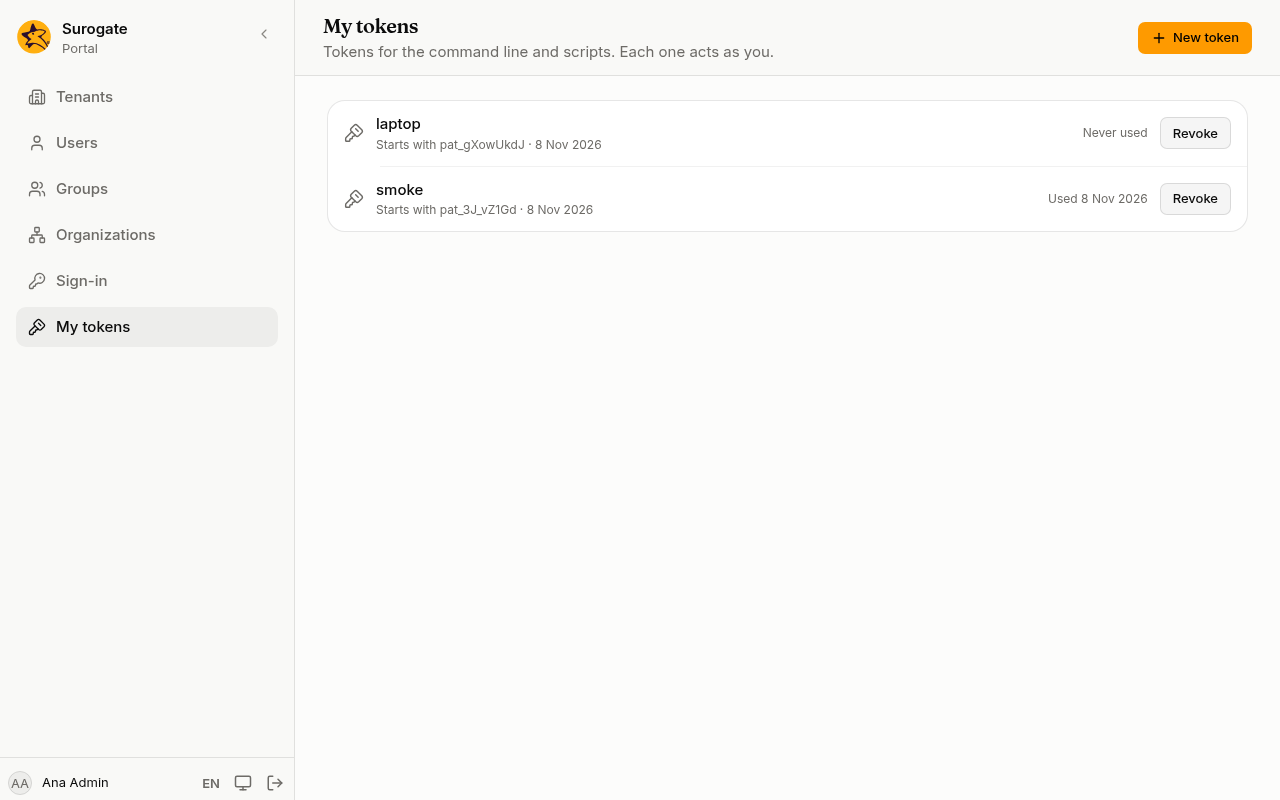
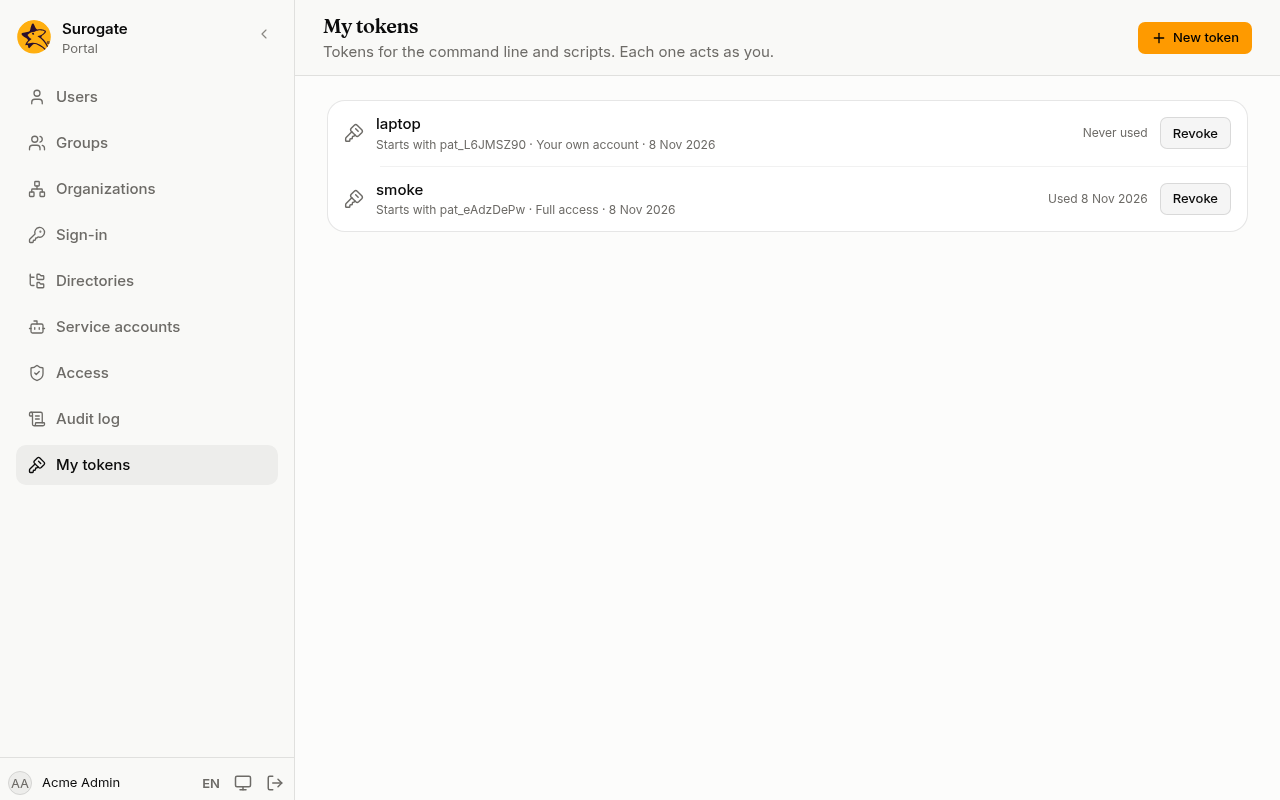
docs(portal): service accounts, token scopes, impersonation and private repositories

diff --git a/tests/test_content.py b/tests/test_content.py
@@ -59,5 +59,17 @@ class Content(unittest.TestCase):
                 self.assertNotIn(word, page(route))
 
 
+    def test_portal_machine_access(self):
+        doc = page('/portal/console/service-accounts/')
+        self.assertIn('<figcaption>A service account', doc)
+        self.assertIn('Act for a person', doc)
+        self.assertIn('id="scopes"', page('/portal/console/tokens/'))
+        self.assertIn('id="impersonate"', page('/portal/console/users/'))
+        self.assertIn('Private repository', page('/portal/console/tenants/'))
+        for route in ('/portal/console/service-accounts/', '/portal/console/tokens/',
+                      '/portal/console/users/', '/portal/console/tenants/'):
+            for word in ('kubectl', 'helm', 'PORTAL_'):
+                self.assertNotIn(word, page(route))
+
 if __name__ == '__main__':
     unittest.main()

diff --git a/tests/test_topics.py b/tests/test_topics.py
@@ -13,7 +13,8 @@ PORTAL = ['/portal/', '/portal/quickstart/', '/portal/console/sign-in/', '/porta
           '/portal/console/groups/', '/portal/console/organizations/', '/portal/console/sign-in-providers/',
           '/portal/console/tokens/', '/portal/console/tenants/', '/portal/reference/roles/',
           '/portal/console/directories/', '/portal/console/group-mappings/', '/portal/console/scim/',
-          '/portal/console/access/', '/portal/sites/permissions/', '/portal/console/audit/']
+          '/portal/console/access/', '/portal/sites/permissions/', '/portal/console/audit/',
+          '/portal/console/service-accounts/']
 
 
 class Topics(unittest.TestCase):

diff --git a/src/content/docs/portal/console/service-accounts.md b/src/content/docs/portal/console/service-accounts.md
@@ -1,0 +1,52 @@
+---
+title: Service accounts
+---
+
+A service account is an account for a program, such as a case system or a nightly import, that calls the portal. It never signs in and is not one of the portal's people. It acts through its own tokens and OAuth clients, each limited to what you allow. **Service accounts** is for administrators.
+
+## Create a service account
+
+1. Press **New service account**.
+2. **Name**: what people call the program, such as "Keel".
+3. **Slug**: a short name for it in lower-case letters, digits and hyphens, such as `keel`. It cannot change.
+4. Tick **Administrator** if the program manages users, groups or settings. Leave it unticked for a program that only reads its own data.
+5. Press **Create account**. The account's page opens.
+
+![A service account's page: its API tokens, and its OAuth clients with their scopes and backends.](../../../../assets/screenshots/portal-service-account.png)
+
+## API tokens
+
+An API token is the simplest way for a program to call the portal: it sends the token with every request.
+
+1. On the account's page, under **API tokens**, press **New token**.
+2. Name the token, such as "production".
+3. Tick its [scopes](/portal/console/tokens/#scopes): only what the program needs.
+4. Press **Create token**, then **Copy**. The console shows the token this once.
+
+## OAuth clients
+
+An OAuth client gets short-lived tokens from the portal itself, which programs built on standard libraries expect. A client can also let an app's backend act for the person who uses the app.
+
+1. Under **OAuth clients**, press **New client**.
+2. Tick its scopes. A client never has **Full access**.
+3. Tick **Act for a person** only if the program does work on a person's behalf: the audit log then names both the program and the person.
+4. Under **App backends**, tick the apps whose backends may use this client to call on behalf of the person signed in to the app. The list shows the apps your implementation team has set up with a backend.
+5. Press **Create client**. Copy the **Client ID** and the **Client secret** and give them to the program's team over a safe channel. The secret is shown this once.
+
+The program asks for tokens at `/_portal/oauth/token` on the tenant's address.
+
+## Revoke, disable and delete
+
+- **Revoke** beside a token or a client stops it at once. Revoked ones stay in the list, marked **Revoked**.
+- **Disable** at the top stops every token and client of the account until you press **Enable**.
+- **Delete account** removes the account with its tokens and clients. This can't be undone.
+
+Everything a service account does is in the [audit log](/portal/console/audit/) under its name.
+
+The same can be done from the command line with an administrator's [token](/portal/console/tokens/):
+
+```
+portal service-accounts create <slug> --name "<name>" [--role administrator]
+portal service-accounts token <slug> <token name> --scope <scope>
+portal service-accounts client <slug> --scope <scope> [--audience <app>]
+```

diff --git a/src/content/docs/portal/console/tokens.md b/src/content/docs/portal/console/tokens.md
@@ -2,19 +2,43 @@
 title: My tokens
 ---
 
-A token lets the command line or a script act as you, without your password. Everyone who signs in to the console has **My tokens**. A token can do what you can do in the console, no more.
+A token lets the command line or a script act as you, without your password. For a program that is not you, make a [service account](/portal/console/service-accounts/) instead. Everyone who signs in to the console has **My tokens**. A token can do what you can do in the console, no more.
 
 ## Create a token
 
 1. Press **New token**.
 2. Name it so you know it later, such as "laptop" or "nightly backup".
-3. Press **Create token**.
-4. Press **Copy** and keep the token somewhere safe. The console shows it this once: "Copy it now. You won't be able to see it again."
-5. Press **Close**.
+3. Tick its **Scopes**: what the token may do. **Your own account** is ticked to start with.
+4. Press **Create token**.
+5. Press **Copy** and keep the token somewhere safe. The console shows it this once: "Copy it now. You won't be able to see it again."
+6. Press **Close**.
 
-![My tokens: the token laptop, with the start of its value, when it was created and when it was last used.](../../../../assets/screenshots/portal-tokens.png)
+![My tokens: the tokens laptop and smoke, each with the start of its value, its scopes, and when it was created and last used.](../../../../assets/screenshots/portal-tokens.png)
 
-A token starts with `pat_`. The list shows the first characters after it, so you can tell your tokens apart, with when each was created and last used.
+A token starts with `pat_`. The list shows the first characters after it, so you can tell your tokens apart, with its scopes and when it was created and last used.
+
+## Scopes
+
+A token can only do what its scopes allow, and never more than you can do in the console. Give a token only the scopes it needs:
+
+| Scope | What the token may do |
+|---|---|
+| **Your own account** | Read your details and permissions |
+| **Read users, groups and settings** | Read the tenant's users, groups, organizations and sign-in settings |
+| **Change users, groups and settings** | Change them too |
+| **Roles, passwords and other tokens** | Give roles, set passwords, link accounts, and make SCIM tokens and service accounts |
+| **Read the audit log** | Read and export the [audit log](/portal/console/audit/) |
+| **Export and erase personal data** | Answer [personal data](/portal/console/users/#personal-data) requests |
+| **Manage tenants** | Create and change [tenants](/portal/console/tenants/), for install administrators |
+| **Full access** | All of the above |
+
+A token made before scopes existed has **Full access**. A token asked to do something its scopes do not allow is refused: "This token is not allowed to do this."
+
+From the command line:
+
+```
+portal tokens create <name> --scope tenant:read
+```
 
 ## Revoke a token
 

diff --git a/src/content/docs/portal/console/users.md b/src/content/docs/portal/console/users.md
@@ -50,6 +50,19 @@ Press **Disable** at the top, then **Disable** again in the question **Disable**
 
 You cannot disable the last active administrator.
 
+### Impersonate
+
+To see the portal exactly as a person sees it, for example to check what a page shows them, press **Impersonate** at the top of their page and confirm. The console takes you to the portal's home page, signed in as them.
+
+![Impersonate Ion Pop?, with what impersonating does.](../../../../assets/screenshots/portal-impersonate.png)
+
+- It lasts at most an hour. The console shows "You are acting as" *name* at the top; press **Stop** to come back to your own account.
+- While you impersonate someone, the console's administration pages, their password and their tokens are closed to you.
+- Everything you do meanwhile is in the [audit log](/portal/console/audit/) as you acting as them.
+- You can impersonate an active person who is not an administrator, and not yourself.
+
+![The console while impersonating: You are acting as Ion Pop, with the Stop button.](../../../../assets/screenshots/portal-impersonation-banner.png)
+
 ## People from a directory or an identity system
 
 A user who comes from a [directory](/portal/console/directories/) or from [SCIM](/portal/console/scim/) carries its name in the list. On their page:

diff --git a/src/content/docs/portal/console/tenants.md b/src/content/docs/portal/console/tenants.md
@@ -29,6 +29,20 @@ The tenant's console is then at `/_portal/admin/` on these addresses, and its ad
 
 The **Config** card connects the tenant to the place its pages and apps are kept. Your implementation team gives you the **Repository address** and the **Branch or tag**. Press **Sync now** to bring in their latest changes: the card says whether the new config is live or what is wrong with it.
 
+### A private repository
+
+If the repository is private, your implementation team also gives you a **User name** and an **Access token** that can read it. Type them under **Private repository** and press **Save**.
+
+- A saved token is never shown again, not even here. To replace it, type a new one and press **Save**; leave the field empty to keep it.
+- **Remove credential** forgets it.
+- The token is only sent to an `https` address. If you change the repository to another server, type the token again.
+
+From the command line, the token comes on standard input so it stays out of your shell history:
+
+```
+portal config source <tenant> <repository address> --username <user name> --token-stdin
+```
+
 ## Give a tenant an administrator
 
 A new tenant has no users yet. Give it its first administrator from its page:

diff --git a/src/content/docs/portal/reference/roles.md b/src/content/docs/portal/reference/roles.md
@@ -15,6 +15,6 @@ When you change your own roles, the console's pages follow at once.
 
 Every tenant keeps at least one active administrator: you cannot remove the role from, or disable, the last one.
 
-Roles are set on a user's page, under [Roles](/portal/console/users/#roles).
+Roles are set on a user's page, under [Roles](/portal/console/users/#roles). A [service account](/portal/console/service-accounts/) can be an administrator too; what each of its tokens may do is then limited by the token's scopes.
 
 Roles can also come from a directory or a sign-in provider, through [group mappings](/portal/console/group-mappings/). Those are kept apart from the ones given by hand, and the next sign-in or sync updates them.
